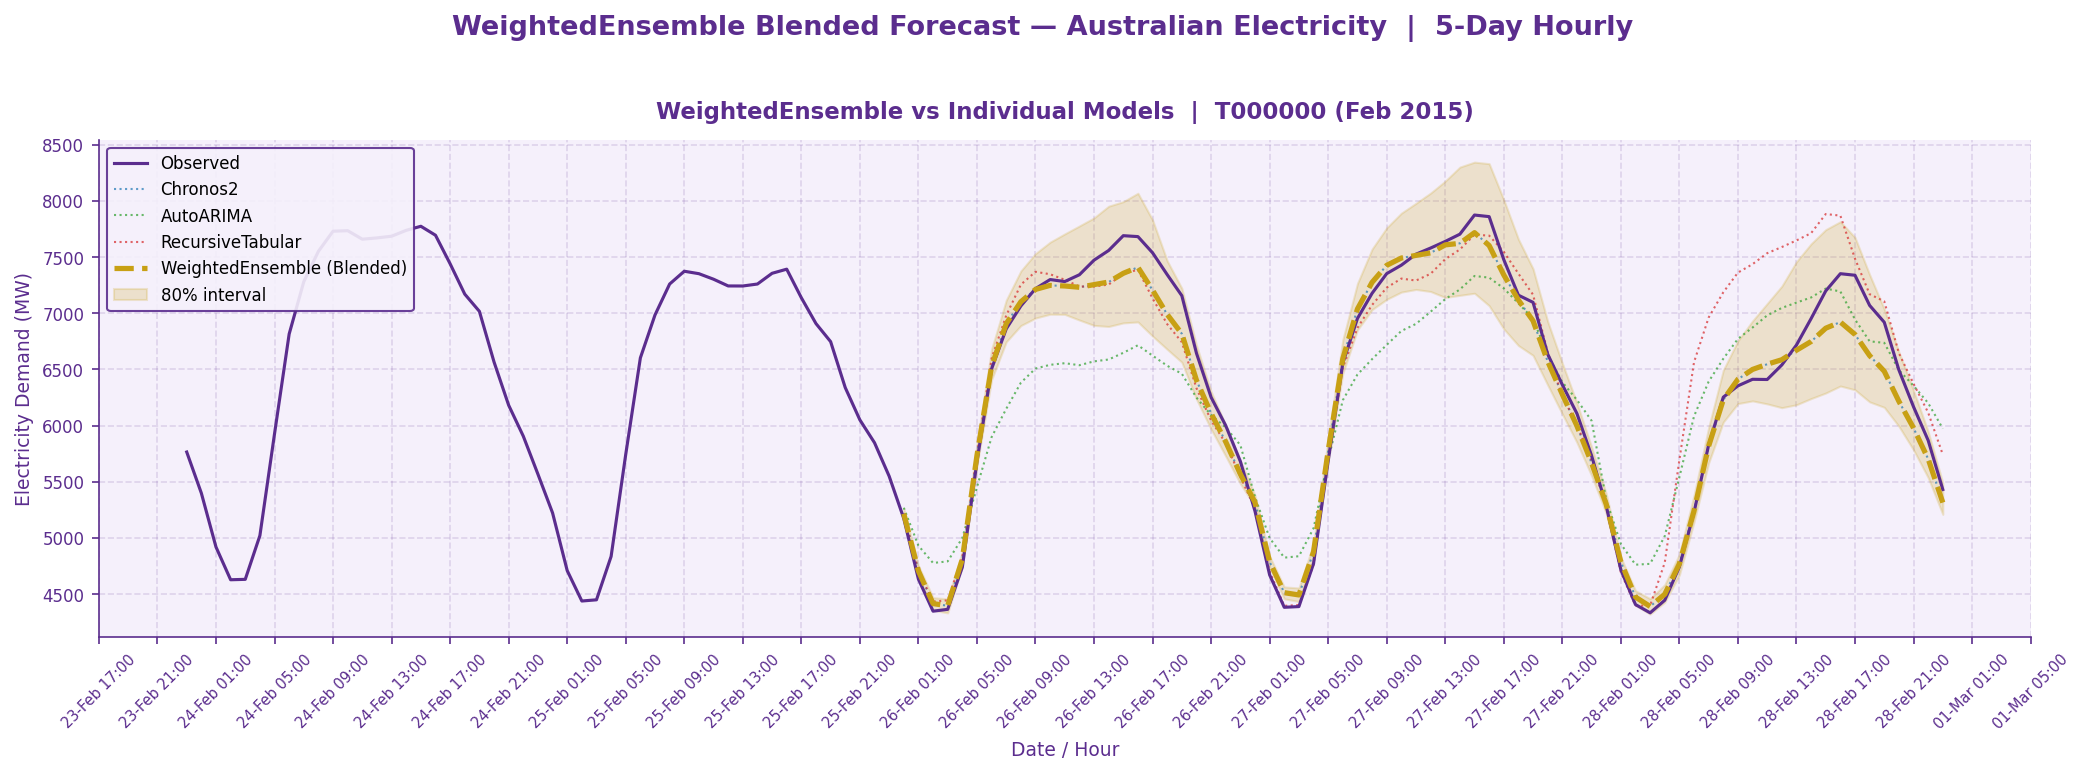
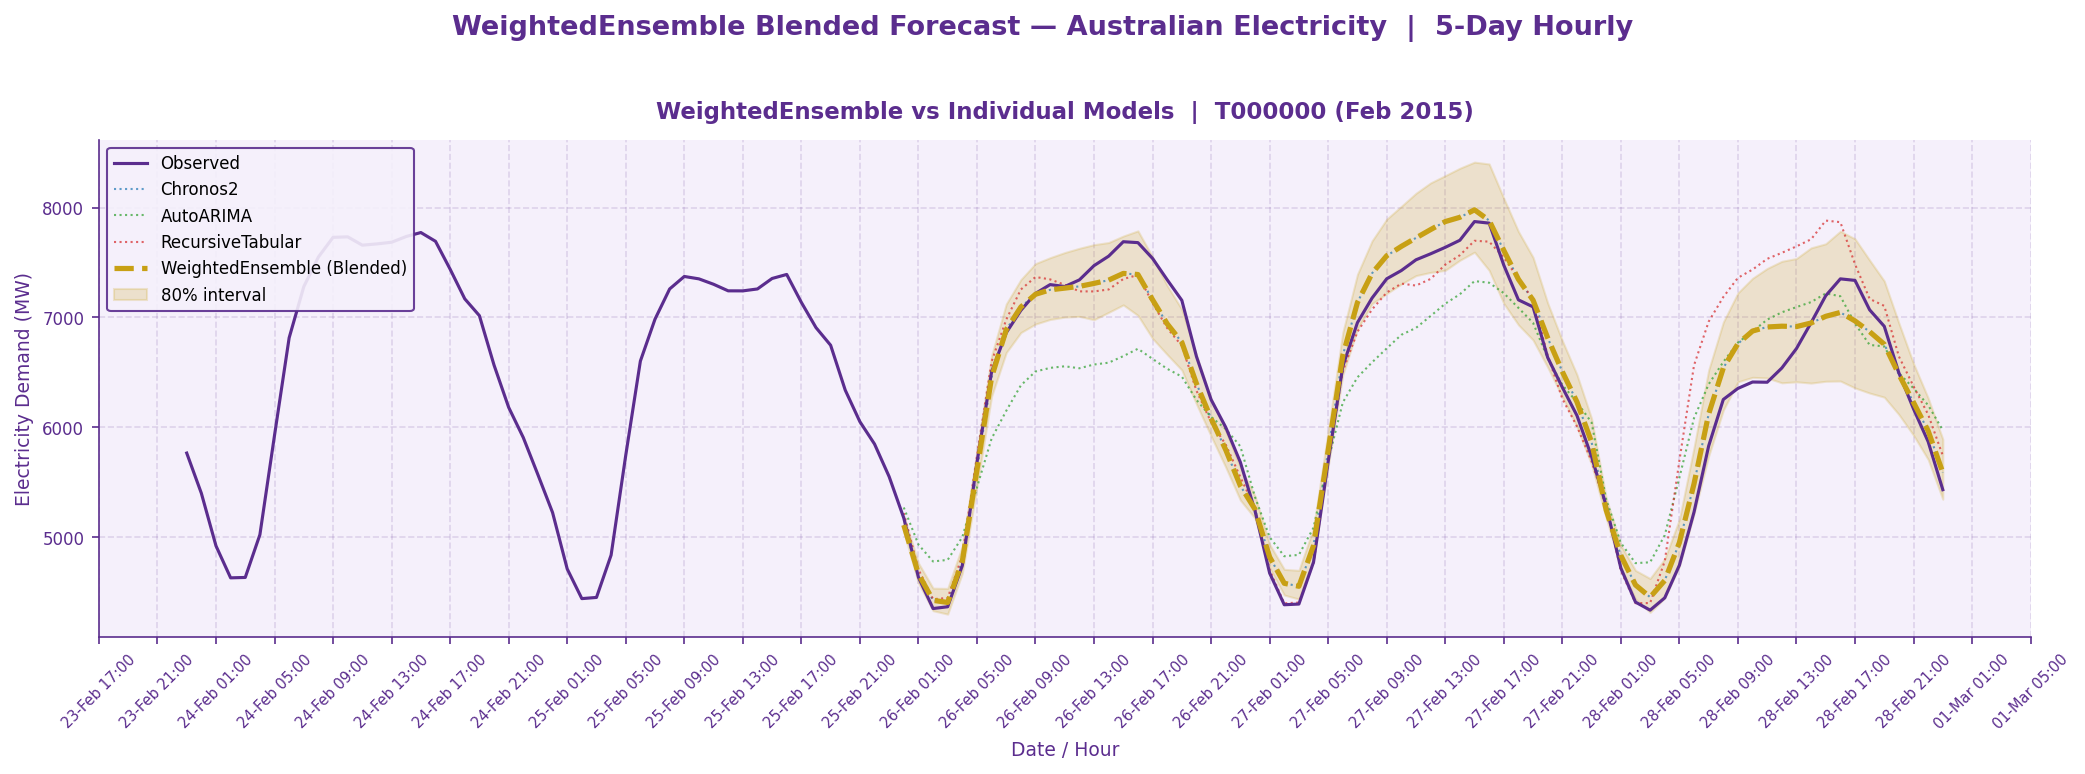
Commit PEA Hackathon 2026 presentation PDF

diff --git a/section_a_ensemble.py b/section_a_ensemble.py
@@ -50,8 +50,8 @@ predictor_a = TimeSeriesPredictor(
 ).fit(
     train_data,
     hyperparameters={
-        "Chronos2": {},  # Chronos-2 zero-shot (pretrained transformer)
-        "AutoARIMA": {"stationary": True},  # Classical ARIMA — fits per series
+        "Chronos2": {"context_length": 168},  # Chronos-2 zero-shot (pretrained transformer)
+        "AutoARIMA": {"stationary": True, "n_jobs": -1},  # Classical ARIMA — fits per series
         "RecursiveTabular": {  # XGBoost tree-based with lag features
             "model_name": "XGB",
             "lags": [1, 2, 3, 6, 12, 24, 48, 168,],  # hourly lags: last 1-3h, 6h, 12h, 1d, 2d, 1w
